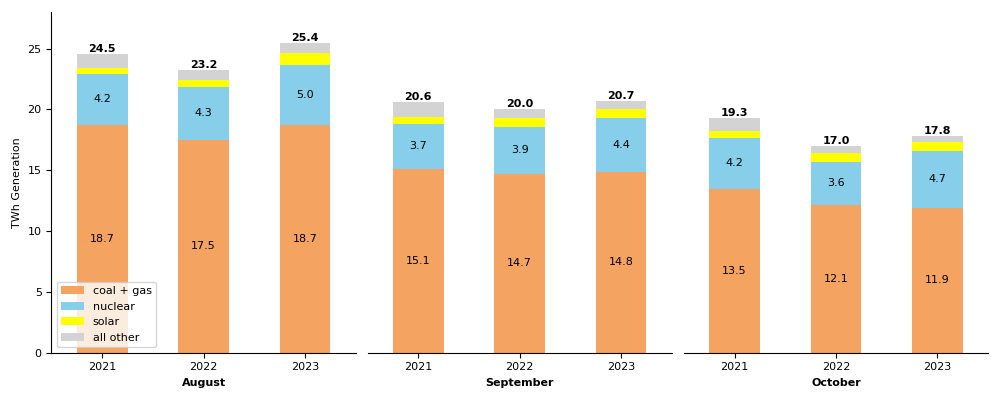
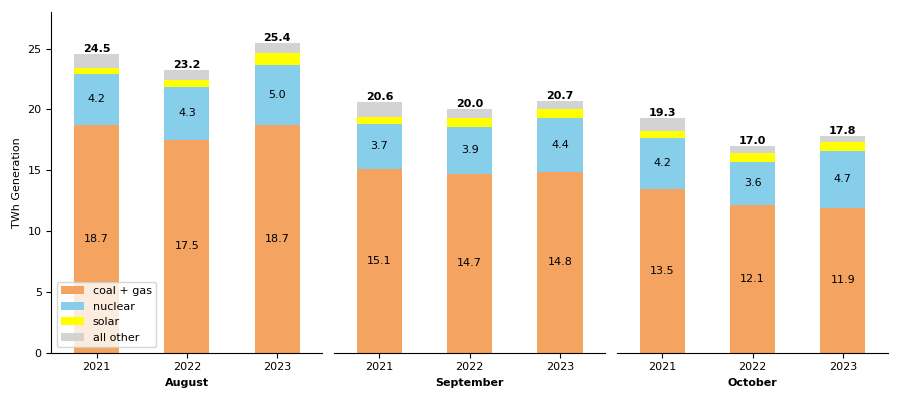
rename image file

diff --git a/post9.py b/post9.py
@@ -11,10 +11,11 @@ from EIADailyFiles import EIAGeneration
 
 def bars_for_months(eiag: EIAGeneration, path: str):
     
-    fig, axes = plt.subplots(1, 3, figsize = (10, 4))
+    fig, axes = plt.subplots(1, 3, figsize = (9, 4))
     
     for ax, month, firstplot, monthname in zip(axes, [8, 9, 10], [True, False, False], ["August", "September", "October"]):
         result = eiag.get_monthly_by_source(monthlist = [month])
+        print(result)
         eiag.stackedbar(result, ax, ymax = 28, firstplot = firstplot, title = monthname)
     plt.savefig(path)
     plt.show()
